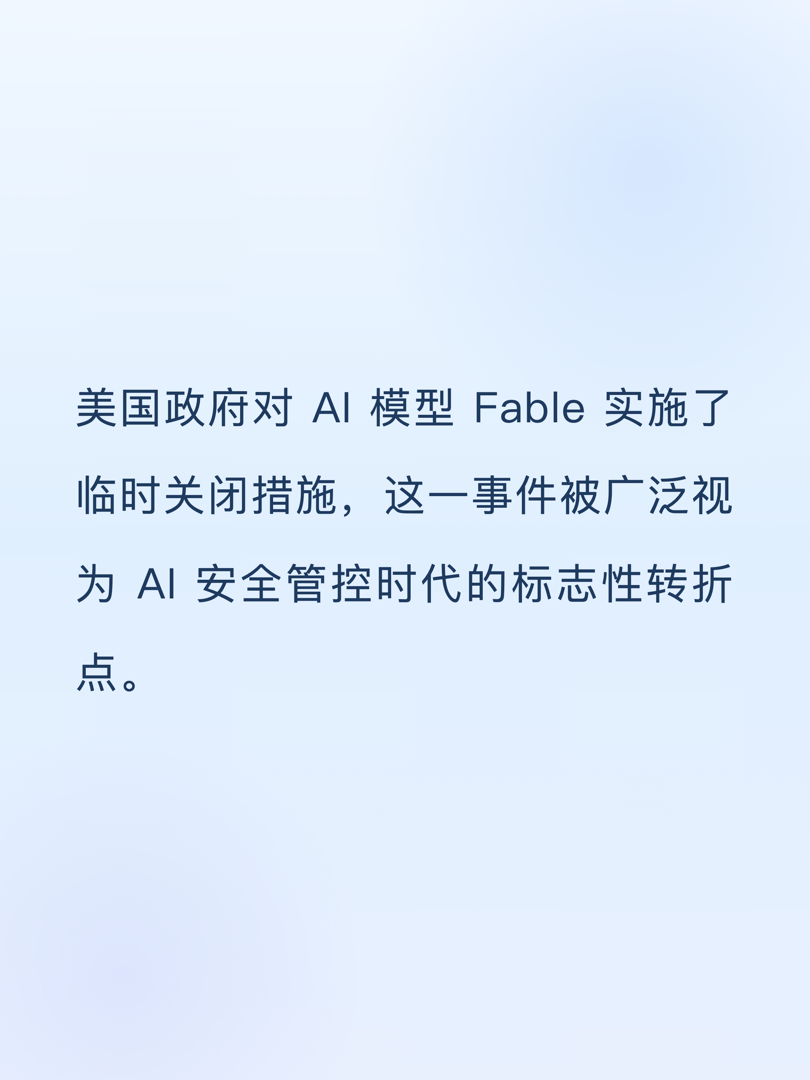
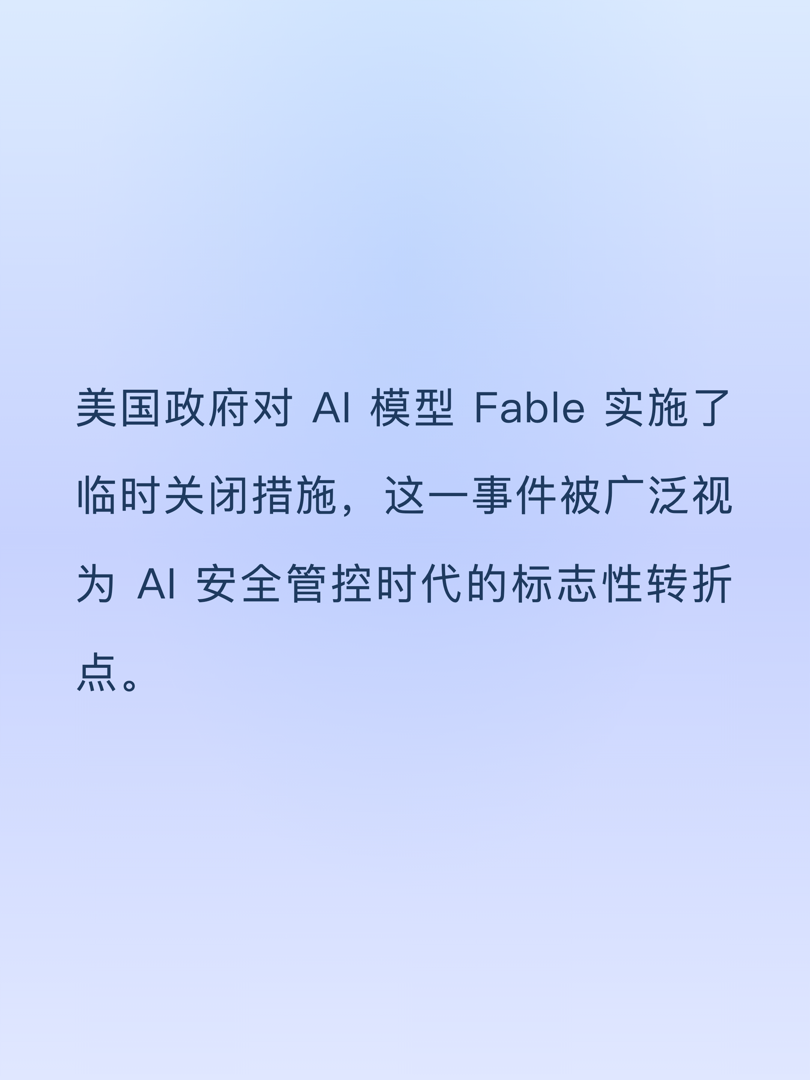
🎨 统一概述/锐评背景 + 区分平台标签
- 概述页背景与锐评页统一（同款渐变+光晕）
- 抖音 badge: 锐评 | 小红书 badge: 小编评论
- 删除概述页多余 emoji 装饰
- 更新 examples 效果图

diff --git a/templates/base.html b/templates/base.html
@@ -10,23 +10,17 @@
   /* ========== 抖音风：清新蓝 科技/睿智 ========== */
   .douyin-summary {
     width: 1080px; height: 1440px;
-    background: linear-gradient(180deg, #f0f7ff 0%, #e0effe 50%, #e8f0fe 100%);
+    background: linear-gradient(180deg, #dbeafe 0%, #c7d2fe 50%, #e0e7ff 100%);
     display: flex; align-items: center; justify-content: center;
     padding: 160px 100px;
     position: relative; overflow: hidden;
   }
   .douyin-summary::before {
     content: ''; position: absolute;
-    top: -20%; right: -15%;
-    width: 70%; height: 70%;
-    background: radial-gradient(circle, rgba(59,130,246,0.12) 0%, transparent 60%);
+    top: 0; left: 0; right: 0; height: 100%;
+    background: radial-gradient(ellipse at 50% 25%, rgba(96,165,250,0.15) 0%, transparent 55%);
   }
-  .douyin-summary::after {
-    content: ''; position: absolute;
-    bottom: -20%; left: -15%;
-    width: 60%; height: 60%;
-    background: radial-gradient(circle, rgba(99,102,241,0.08) 0%, transparent 60%);
-  }
+  .douyin-summary::after { display: none; }
   .douyin-summary .text {
     font-size: 56px; line-height: 2.1;
     color: #1e3a5f; font-weight: 400;
@@ -79,21 +73,17 @@
   /* ========== 小红书风：小清新 可爱 ========== */
   .xhs-summary {
     width: 1080px; height: 1440px;
-    background: linear-gradient(180deg, #fffbf5 0%, #fff5f8 100%);
+    background: linear-gradient(180deg, #fff0f3 0%, #fce7f3 50%, #fdf2f8 100%);
     display: flex; align-items: center; justify-content: center;
     padding: 160px 100px;
     position: relative; overflow: hidden;
   }
   .xhs-summary::before {
-    content: '🌿';
-    position: absolute; top: 50px; right: 60px;
-    font-size: 64px; opacity: 0.25;
+    content: ''; position: absolute;
+    top: 0; left: 0; right: 0; height: 100%;
+    background: radial-gradient(ellipse at 50% 25%, rgba(244,114,182,0.12) 0%, transparent 55%);
   }
-  .xhs-summary::after {
-    content: '✨';
-    position: absolute; bottom: 60px; left: 60px;
-    font-size: 56px; opacity: 0.2;
-  }
+  .xhs-summary::after { display: none; }
   .xhs-summary .text {
     font-size: 56px; line-height: 2.1;
     color: #4a4a4a; font-weight: 400;

diff --git a/scripts/generate.js b/scripts/generate.js
@@ -49,7 +49,7 @@ function buildSummaryHTML(text, style) {
 
 function buildCritiqueHTML(text, style) {
   const escapeHtml = (s) => s.replace(/&/g, '&amp;').replace(/</g, '&lt;').replace(/>/g, '&gt;');
-  const badge = '锐评';
+  const badge = style === 'douyin' ? '锐评' : '小编评论';
   const icon = '<svg viewBox="0 0 24 24" fill="currentColor"><path d="M13 2L4.09 12.97L11 13.93L11 22L19.91 11.03L13 10.07L13 2Z"/></svg>';
   return `<div class="${style}-critique">
     <div class="badge">${icon}<span>${badge}</span></div>